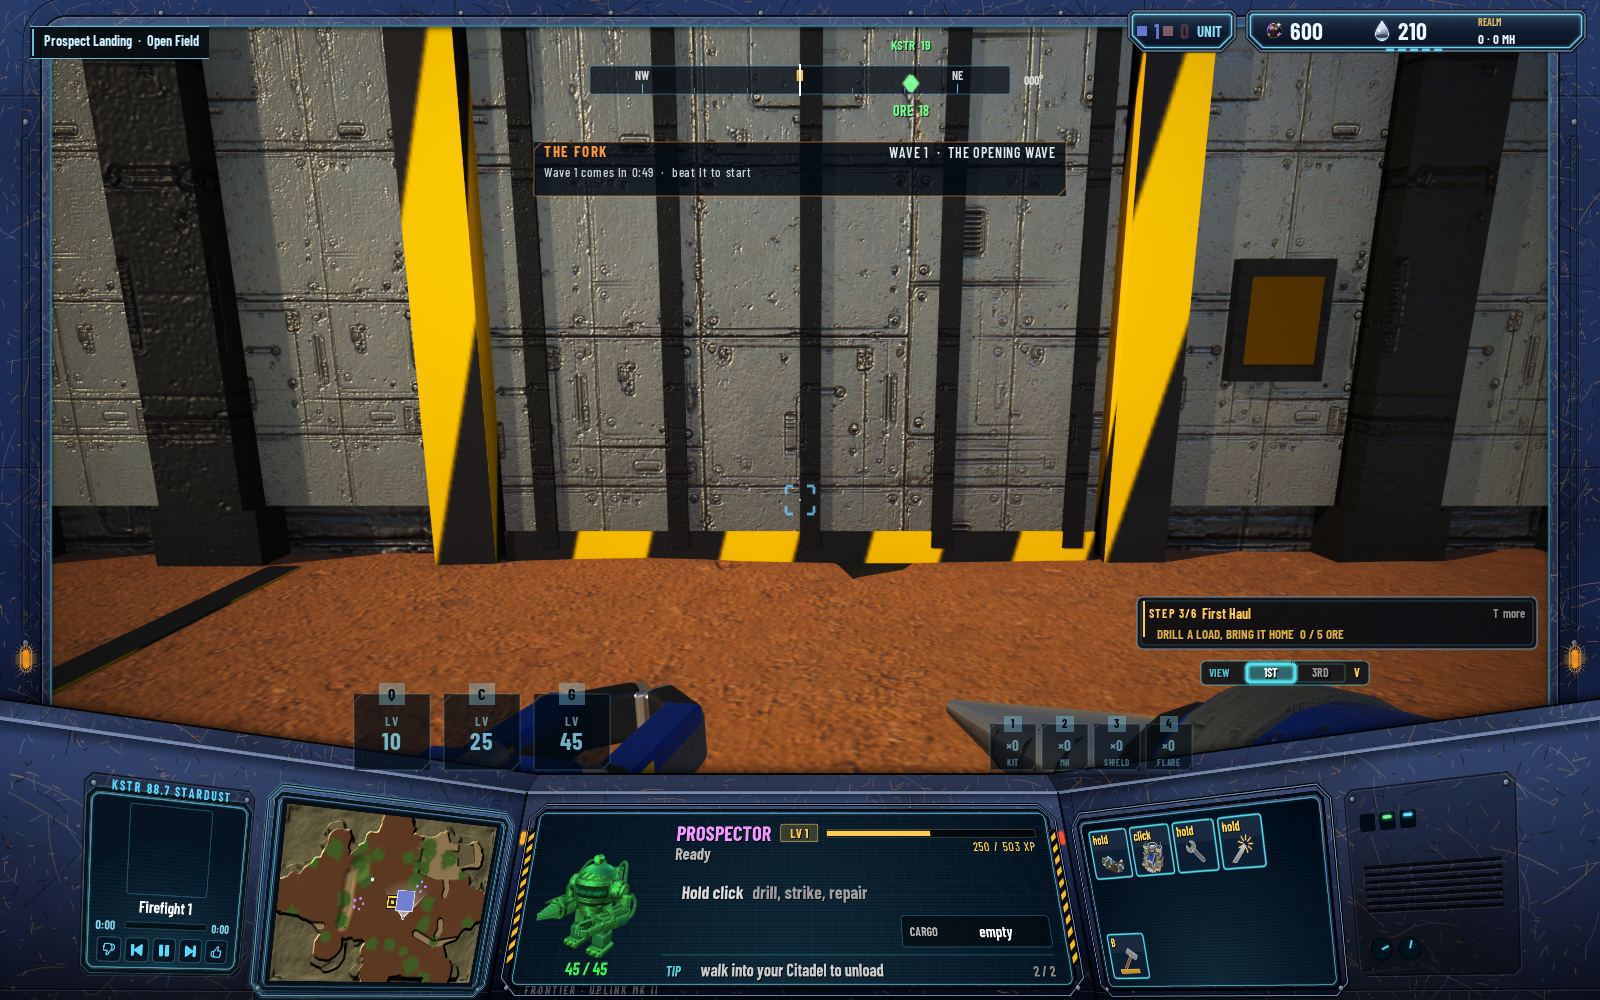
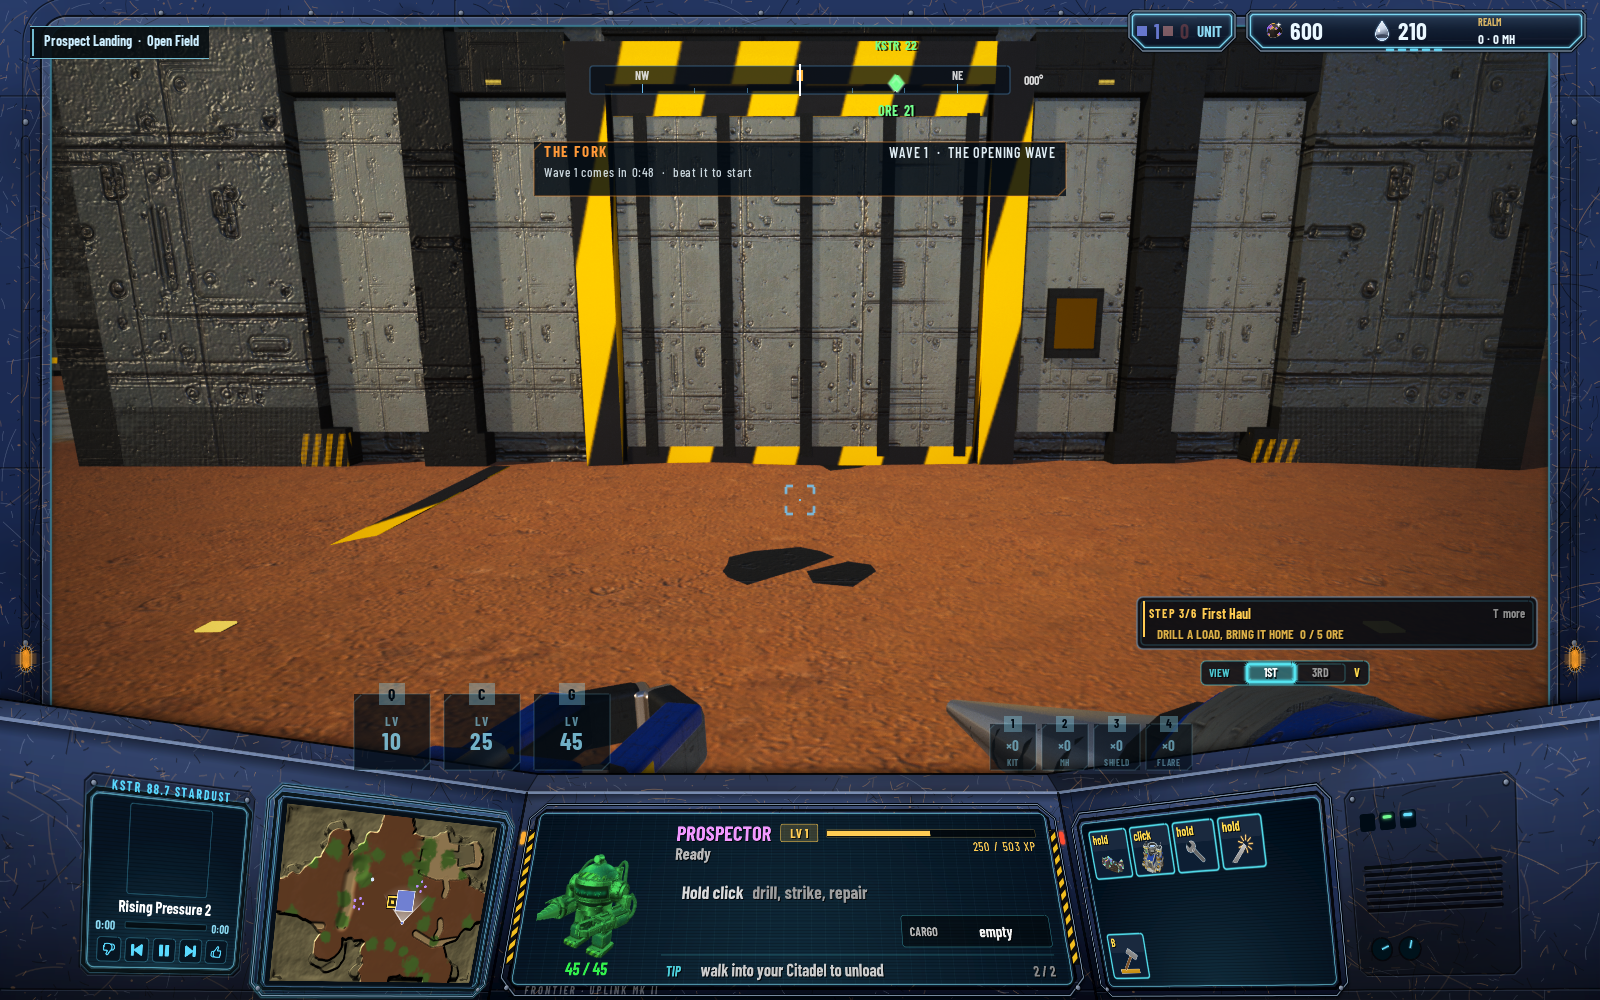
C1 game: the feed shows its gun. At a corner gun the dashboard is down (UAcConsoleSubsystem::SetDashboardHidden; the skill slots and item stacks not drawn; back up off the gun and on leaving), the overlay's view the whole screen; the feed's slim strip at the bottom edge carries the unit's hit points

diff --git a/unreal/Source/Autocraft/AcMmoCitadelFlowTest.cpp b/unreal/Source/Autocraft/AcMmoCitadelFlowTest.cpp
@@ -13,9 +13,9 @@
 //             the feed heats); Esc disengages; opens the door again and walks
 //             out (no longer sheltered). Every move through the real act key,
 //             the move keys and the mouse's yaw, the Door and Man requests.
-//             With -AcMmoShots=DIR -AcMmoShotsC1: a PNG at the door shut
-//             (c1-door-shut.png) and open (c1-door-open.png), in the hall
-//             (c1-hall.png) and at the gun (c1-feed.png).
+//             With -AcMmoShots=DIR -AcMmoShotsC1: a PNG of the door shut
+//             (c1-door-shut.png) and open (c1-door-open.png) from 7 cells
+//             out, in the hall (c1-hall.png) and at the gun (c1-feed.png).
 //
 // Run hidden in a game process (ringshadow-testing, "Flow tests"):
 //   uv run unreal/Tools/hidden_run.py --out DIR --headless -- -AcFlowTest=mmocitadel
@@ -190,28 +190,35 @@ void UAcGameFlowSubsystem::TickMmoCitadelFlow(const FString& Step)
 		Pilot->Press(false);
 		Hall.bPressed = true;
 	};
-	const ac::Vec2 Doorstep(0, 7.0), InsideDoor(0, 3.8);
+	const ac::Vec2 Doorstep(0, 7.0), InsideDoor(0, 3.8), Apron(0, 13.0);
+	const bool bPictures = FParse::Param(FCommandLine::Get(), TEXT("AcMmoShotsC1"));
+	auto Pictures = [bPictures] { return bPictures; };
+	auto FaceDoor = [&] {
+		const ac::Vec2 D = C->position + ac::Vec2(0, 5.0) - U->position;
+		Pilot->SetTestInput(FVector2D::ZeroVector, std::atan2(D.y, D.x));
+	};
 	switch (T.Phase)
 	{
 	case 2:
-		// The door shut, a picture of it, then to the doorstep.
-		// Pictures: facing the door, the new Citadel and the ground streamed in first.
-		if (!Hall.bShot && FParse::Param(FCommandLine::Get(), TEXT("AcMmoShotsC1")) && Since() < 10.0)
+		// The door shut, a picture of it from out on the field, then to the doorstep.
+		if (!Hall.bShot && Pictures())
 		{
-			const ac::Vec2 D = C->position + ac::Vec2(0, 5.5) - U->position;
-			Pilot->SetTestInput(FVector2D::ZeroVector, std::atan2(D.y, D.x));
-			return;
+			// A few cells before the apron (the open ramp reaches 3 out),
+			// facing the door; the new Citadel and the ground streamed in.
+			if (!WalkTo(Apron, 0.5)) return;
+			FaceDoor();
+			if (!Settle(10.0)) return;
 		}
 		if (!Hall.bShot)
 		{
 			Check(C->door->open == 0 && !C->door->opening, FString::Printf(TEXT("Citadel #%lld put down, its door shut"), (long long)C->id));
+			Hall.bShot = true;
+			Hall.Settled = -1;
 			if (Picture(TEXT("c1-door-shut")))
 			{
-				Hall.bShot = true;
 				T.PhaseAt = Now;
 				return;
 			}
-			Hall.bShot = true;
 		}
 		if (Since() < 1.0) return;
 		if (WalkTo(Doorstep, 0.6) && Settle(0.6))
@@ -226,8 +233,21 @@ void UAcGameFlowSubsystem::TickMmoCitadelFlow(const FString& Step)
 		if (!Hall.bPressed) Press();
 		if (S->doorOpen(*C))
 		{
-			Check(Mmo->HallRefusal().IsEmpty(), TEXT("the door opened on the act key"));
-			Picture(TEXT("c1-door-open"));
+			if (!Hall.bShot)
+			{
+				Check(Mmo->HallRefusal().IsEmpty(), TEXT("the door opened on the act key"));
+				Hall.bShot = true;
+				Hall.Settled = -1;
+			}
+			// The picture from where the shut one was: the ramp down, the
+			// hall through the opening.
+			if (Pictures())
+			{
+				if (!WalkTo(Apron, 0.5)) return;
+				FaceDoor();
+				if (!Settle(1.5)) return;
+				Picture(TEXT("c1-door-open"));
+			}
 			Advance();
 		}
 		else Waited(FString::Printf(TEXT("the door open (%.2f, %s)"), C->door->open, *Mmo->HallRefusal()), AskSeconds);

diff --git a/unreal/Source/Autocraft/SAcPilotOverlay.cpp b/unreal/Source/Autocraft/SAcPilotOverlay.cpp
@@ -608,10 +608,29 @@ void SAcPilotOverlay::PaintFeed(FAcPilotPen& P, const double W, const double H, 
 			true, false);
 	}
 
-	// The arc gauge: the gun's 220 degrees as a band (the hull's 140 below
-	// it dark), the hard stops in red, the aim as a needle.
+	// At the bottom edge a slim strip (the dashboard is down at a gun): the
+	// unit's hit points and the keys. The lower middle of the frame stays
+	// clear down to it: the gun's barrels and muzzle ring are there.
+	const double StripH = 40;
+	P.Fill(FAcRect(R.MinX(), R.MinY(), R.W, StripH), Srgb(0.01, 0.03, 0.05, 0.78));
+	P.Fill(FAcRect(R.MinX(), R.MinY() + StripH - 1, R.W, 1), Edge);
+	const double HpF = FMath::Clamp(Info.Hp / FMath::Max(Info.MaxHp, 1.0), 0.0, 1.0);
+	const FAcRect HpBar(R.MinX() + In + 14, R.MinY() + 14, 200, 12);
+	P.Plate(HpBar, 2, FLinearColor(0, 0, 0, 0.5f), PanelStroke(), 1);
+	P.Fill(FAcRect(HpBar.MinX(), HpBar.MinY(), HpBar.W * HpF, HpBar.H), HpF > 0.5 ? Srgb(0.3, 0.9, 0.4) : HpF > 0.25 ? BlockedColor() : EnemyColor());
+	P.Label(FString::Printf(TEXT("%s  %lld / %lld"), *Info.Name, (long long)FMath::RoundToDouble(Info.Hp), (long long)Info.MaxHp), 13, White(0.9),
+		FVector2D(HpBar.MaxX() + 12, HpBar.MinY() + 1), EAcHAlign::Left, EAcVAlign::Baseline, true, false);
+	P.Label(TEXT("Click · FIRE      Esc · DISENGAGE"), 15, White(0.95), FVector2D(R.MaxX() - In - 14, R.MinY() + 14), EAcHAlign::Right,
+		EAcVAlign::Baseline, true, false);
+
+	// The arc gauge, lower left beside the heat: the gun's 220 degrees as a
+	// band (the hull's 140 below it dark), the hard stops in red, the aim as
+	// a needle.
 	const double Rad = 58;
-	const FVector2D G(R.MinX() + R.W / 2, R.MinY() + In + 34 + Rad * 0.35);
+	const double PipW = 9, PipH = 16, Gap = 4;
+	const double BarW = FAcTurretFeed::HeatPips * (PipW + Gap) - Gap;
+	const double PipsX = R.MinX() + In + 14;
+	const FVector2D G(PipsX + BarW + 40 + Rad, R.MinY() + StripH + 26 + Rad);
 	auto Arc = [&](const double From, const double To, const double Radius)
 	{
 		TArray<FVector2D> A;
@@ -644,19 +663,13 @@ void SAcPilotOverlay::PaintFeed(FAcPilotPen& P, const double W, const double H, 
 	const double PitchY = FMath::Lerp(PitchLo, PitchHi, FMath::Clamp(Pt, 0.0, 1.0));
 	P.Lines({FVector2D(PitchX - 7, PitchY), FVector2D(PitchX + 7, PitchY)}, ReadyColor(), 2.4, 1.2);
 	// Heat pips left of the dial, the cooldown under them.
-	const double PipW = 9, PipH = 16, Gap = 4;
-	const double PipsX = G.X - Rad - 30 - FAcTurretFeed::HeatPips * (PipW + Gap);
 	for (int32 K = 0; K < FAcTurretFeed::HeatPips; ++K)
 	{
 		const bool bLit = K < F.Heat;
 		const FLinearColor Hot = K >= FAcTurretFeed::HeatPips - 2 ? EnemyColor() : BlockedColor();
 		P.Plate(FAcRect(PipsX + K * (PipW + Gap), G.Y, PipW, PipH), 1.5, bLit ? Hot : FLinearColor(0, 0, 0, 0.45f), Alpha(Hot, 0.6), 0.8);
 	}
-	const double BarW = FAcTurretFeed::HeatPips * (PipW + Gap) - Gap;
 	P.Plate(FAcRect(PipsX, G.Y - 10, BarW, 4), 1, FLinearColor(0, 0, 0, 0.5f), White(1, 0.2), 0.6);
 	P.Fill(FAcRect(PipsX, G.Y - 10, BarW * F.Ready, 4), F.Ready >= 1 ? ReadyColor() : BlockedColor());
 	P.Label(TEXT("HEAT"), 11, White(0.75), FVector2D(PipsX, G.Y + PipH + 6), EAcHAlign::Left, EAcVAlign::Baseline, true, false);
-	// How to get off it, bottom right.
-	P.Label(TEXT("ESC · DISENGAGE"), 15, White(0.9), FVector2D(R.MaxX() - In - 14, R.MinY() + In + 14), EAcHAlign::Right,
-		EAcVAlign::Baseline, true, false);
 }

diff --git a/unreal/Source/Autocraft/AcPilotOverlay.cpp b/unreal/Source/Autocraft/AcPilotOverlay.cpp
@@ -205,6 +205,8 @@ void UAcPilotOverlaySubsystem::OnFrame(const FAcFrame& Frame)
 	// A pad flight (AcPilotFlight.h): the HUD comes back at the touch down.
 	if (!F || F->Unit.id != Pawn->Driven() || Pawn->PulledOut() || Pawn->InFlight())
 	{
+		// (Off a gun the dashboard is up again, C1.)
+		if (UAcConsoleSubsystem* Console = UAcConsoleSubsystem::Get(this)) Console->SetDashboardHidden(false);
 		if (DrivenId != INDEX_NONE)
 		{
 			DrivenId = INDEX_NONE;
@@ -353,7 +355,8 @@ void UAcPilotOverlaySubsystem::OnFrame(const FAcFrame& Frame)
 			const double Low = FMath::Max(L.Brow[0].Y, L.Brow[3].Y);
 			View = FAcRect(0, Low, L.Size.X, L.Size.Y - Low);
 		}
-		Widget->SetView(View);
+		// C1: at a corner gun the dashboard is down; the feed has the whole view.
+		Widget->SetView(Pawn->AtGun() != INDEX_NONE ? FAcRect() : View);
 		Widget->Show(Info, Now);
 	}
 
@@ -363,6 +366,7 @@ void UAcPilotOverlaySubsystem::OnFrame(const FAcFrame& Frame)
 		// frame round the view only from behind.
 		Console->SetLook(Info.bCab ? EAcConsoleStyle::Cab : EAcConsoleStyle::Cockpit, Info.Lamps, Info.bThirdPerson);
 		Console->SetPilotInfo(Info.Console);
+		Console->SetDashboardHidden(Pawn->AtGun() != INDEX_NONE);
 	}
 	Shown = MoveTemp(Info);
 }

diff --git a/unreal/Source/Autocraft/AcConsole.h b/unreal/Source/Autocraft/AcConsole.h
@@ -76,6 +76,9 @@ public:
 	/// The cockpit's info (E-chunks): while set, the console shows this
 	/// instead of the selection.
 	void SetPilotInfo(TOptional<FAcCardInfo> Info) { PilotInfo = MoveTemp(Info); }
+	/// C1: at a corner gun the dashboard is down (the gun's feed has the
+	/// lower frame, its barrels; docs/citadel-interior.md section 7).
+	void SetDashboardHidden(bool bHidden);
 
 private:
 	void OnFrame(const FAcFrame& Frame);
@@ -98,4 +101,5 @@ private:
 	EAcConsoleStyle LookStyle = EAcConsoleStyle::Rts;
 	EAcCabLamps LookLamps = EAcCabLamps::Idle;
 	bool bLookViewFrame = true;
+	bool bDashboardHidden = false;
 };

diff --git a/unreal/Source/Autocraft/AcProgressHud.cpp b/unreal/Source/Autocraft/AcProgressHud.cpp
@@ -1201,7 +1201,8 @@ void UAcProgressHudSubsystem::OnFrame(const FAcFrame& Frame)
 	TOptional<std::array<FAcSlotView, 3>> Row;
 	const AAcPilotPawn* Pawn = AAcPilotPawn::Find(this);
 	const ac::net::ProgressMessage* P = Mmo->Progress();
-	if (P && Pawn && Pawn->Driving() && !Pawn->InFlight() && !Mmo->Travelling())
+	// (Not at a corner gun: the dashboard is down, C1.)
+	if (P && Pawn && Pawn->Driving() && !Pawn->InFlight() && !Mmo->Travelling() && Pawn->AtGun() == INDEX_NONE)
 	{
 		const int64 Level = ac::Progression::level(Mmo->Xp().value_or(P->xp));
 		std::array<FAcSlotView, 3> Slots;

diff --git a/unreal/Source/Autocraft/AcConsole.cpp b/unreal/Source/Autocraft/AcConsole.cpp
@@ -205,6 +205,13 @@ bool UAcConsoleSubsystem::Attach()
 	return true;
 }
 
+void UAcConsoleSubsystem::SetDashboardHidden(const bool bHidden)
+{
+	if (!ConsoleWidget || bHidden == bDashboardHidden) return;
+	bDashboardHidden = bHidden;
+	ConsoleWidget->SetVisibility(bHidden ? EVisibility::Collapsed : EVisibility::Visible);
+}
+
 void UAcConsoleSubsystem::UpdateMinimapSize(const UAcSimSubsystem& Sim)
 {
 	if (!ConsoleWidget) return;

diff --git a/docs/citadel-interior.md b/docs/citadel-interior.md
@@ -307,6 +307,15 @@ As built (the game):
   them (as the pose does): six pips over the last 1.5 s against the
   weapon's rate flat out, and a cooldown bar under them. A short pitch
   scale stands right of the arc gauge. Slate paint only.
+- At a gun the dashboard is down (`UAcConsoleSubsystem::SetDashboardHidden`:
+  the minimap, the unit's panel; the skill slots and item stacks are not
+  drawn); the top bars, the compass, the wallet and the step card stay. In
+  its place a slim strip at the bottom edge: the unit's hit points and
+  "Click · FIRE   Esc · DISENGAGE". The arc gauge and the heat sit lower
+  left, the gun's name, marks and LIVE at the top; the lower middle stays
+  clear down to the strip, where the gun's barrels and muzzle ring show
+  (at the game's 62-degree view a little lower in the frame than the
+  model's renders).
 - Pose numbers: `gunScreens_k` 1.9 lit / 0.04 dark (exported 0.04),
   `hallLamps_k` (`hallGlow`) 1.0 / 0.05 under construction, `doorPanels_k`
   (`panelGlow`) 1.0 on the pilot's side while in reach (the pawn sets
